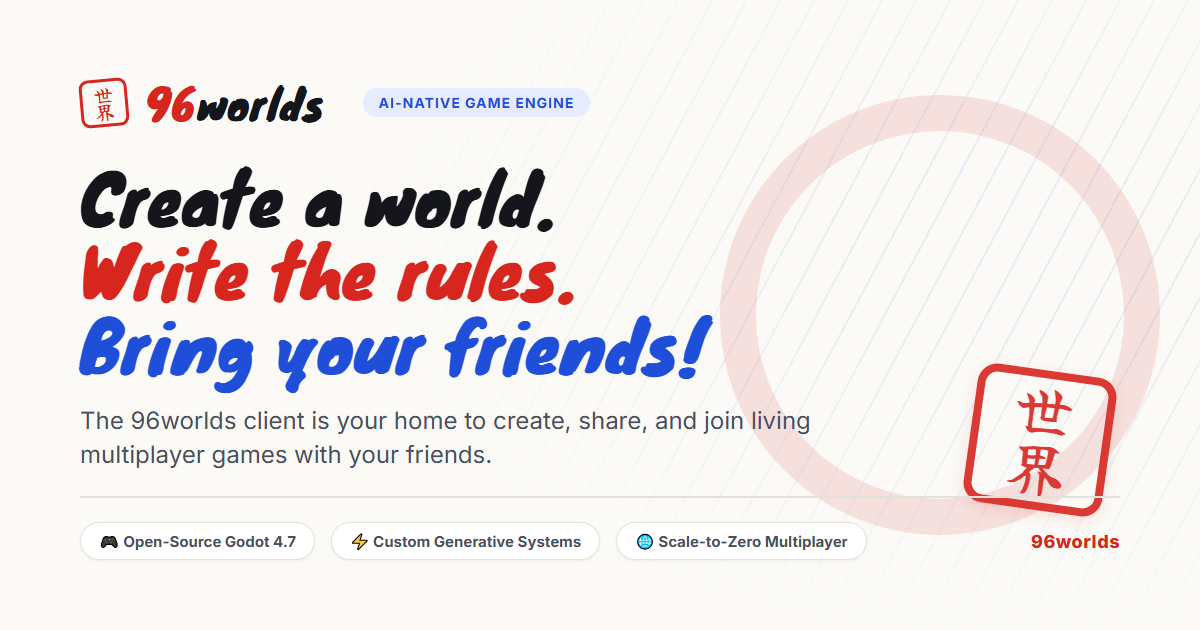
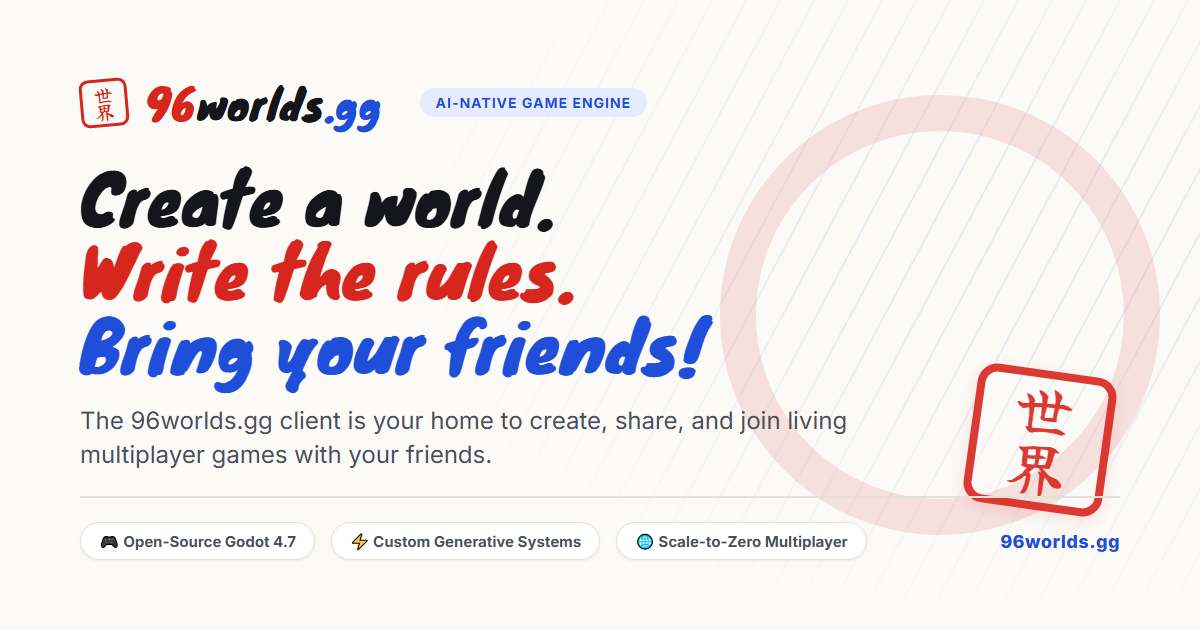
feat(brand): keep .gg suffix in 96worlds.gg branding

Changed region(s): [[0.185, 0.6333, 0.7092, 0.6937], [0.2775, 0.1508, 0.5242, 0.2111], [0.8325, 0.8444, 0.9558, 0.8746]]

diff --git a/src/i18n.ts b/src/i18n.ts
@@ -1,5 +1,5 @@
 /**
- * Zero-dependency i18n for 96worlds.
+ * Zero-dependency i18n for 96worlds.gg.
  *
  * Markup hooks:
  *   data-i18n="key"                 -> sets textContent
@@ -17,10 +17,10 @@ const STORAGE_KEY = '96worlds_lang';
 type Dict = Record<string, string>;
 
 const en: Dict = {
-  'meta.title.home': '96worlds — Create a world. Write the rules. Bring your friends!',
-  'meta.title.studio': 'Web Studio (under construction) — 96worlds',
+  'meta.title.home': '96worlds.gg — Create a world. Write the rules. Bring your friends!',
+  'meta.title.studio': 'Web Studio (under construction) — 96worlds.gg',
   'meta.description':
-    'The 96worlds client is your home to create, share, and join living multiplayer games. Create a world. Write the rules. Bring your friends!',
+    'The 96worlds.gg client is your home to create, share, and join living multiplayer games. Create a world. Write the rules. Bring your friends!',
 
   'nav.skip': 'Skip to content',
   'nav.label': 'Primary',
@@ -34,7 +34,7 @@ const en: Dict = {
   'common.soon': 'Coming soon',
   'theme.toDark': 'Switch to dark theme',
   'theme.toLight': 'Switch to light theme',
-  'brand.home': '96worlds home',
+  'brand.home': '96worlds.gg home',
 
   'hero.eyebrow': 'AI-native multiplayer game creation',
   'hero.line1': 'Create a world.',
@@ -110,7 +110,7 @@ const en: Dict = {
   'download.note': 'Got a room code from a friend? Open the launcher and type it in.',
 
   'community.title': 'Join the community',
-  'community.body': 'Share your games, find players and help shape 96worlds.',
+  'community.body': 'Share your games, find players and help shape 96worlds.gg.',
 
   'footer.tagline': 'Create a world. Write the rules. Bring your friends!',
   'footer.credit': 'Built with Godot Engine and open source.',
@@ -131,10 +131,10 @@ const en: Dict = {
 };
 
 const ptBR: Dict = {
-  'meta.title.home': '96worlds — Crie um mundo. Escreva as regras. Traga seus amigos!',
-  'meta.title.studio': 'Estúdio Web (em construção) — 96worlds',
+  'meta.title.home': '96worlds.gg — Crie um mundo. Escreva as regras. Traga seus amigos!',
+  'meta.title.studio': 'Estúdio Web (em construção) — 96worlds.gg',
   'meta.description':
-    'O cliente 96worlds é o seu lugar para criar, compartilhar e jogar mundos multiplayer vivos. Crie um mundo. Escreva as regras. Traga seus amigos!',
+    'O cliente 96worlds.gg é o seu lugar para criar, compartilhar e jogar mundos multiplayer vivos. Crie um mundo. Escreva as regras. Traga seus amigos!',
 
   'nav.skip': 'Pular para o conteúdo',
   'nav.label': 'Principal',
@@ -148,7 +148,7 @@ const ptBR: Dict = {
   'common.soon': 'Em breve',
   'theme.toDark': 'Mudar para o tema escuro',
   'theme.toLight': 'Mudar para o tema claro',
-  'brand.home': 'Página inicial do 96worlds',
+  'brand.home': 'Página inicial do 96worlds.gg',
 
   'hero.eyebrow': 'Criação de jogos multiplayer com IA',
   'hero.line1': 'Crie um mundo.',
@@ -224,7 +224,7 @@ const ptBR: Dict = {
   'download.note': 'Recebeu um código de sala de um amigo? Abra o launcher e digite o código.',
 
   'community.title': 'Entre na comunidade',
-  'community.body': 'Compartilhe seus jogos, encontre jogadores e ajude a moldar o 96worlds.',
+  'community.body': 'Compartilhe seus jogos, encontre jogadores e ajude a moldar o 96worlds.gg.',
 
   'footer.tagline': 'Crie um mundo. Escreva as regras. Traga seus amigos!',
   'footer.credit': 'Feito com Godot Engine e código aberto.',
@@ -245,10 +245,10 @@ const ptBR: Dict = {
 };
 
 const ja: Dict = {
-  'meta.title.home': '96worlds — 世界を創る。ルールを書く。仲間を呼ぼう！',
-  'meta.title.studio': 'Webスタジオ（工事中）— 96worlds',
+  'meta.title.home': '96worlds.gg — 世界を創る。ルールを書く。仲間を呼ぼう！',
+  'meta.title.studio': 'Webスタジオ（工事中）— 96worlds.gg',
   'meta.description':
-    '96worldsクライアントは、マルチプレイヤーゲームを創り、共有し、参加できるプラットフォームです。世界を創る。ルールを書く。仲間を呼ぼう！',
+    '96worlds.ggクライアントは、マルチプレイヤーゲームを創り、共有し、参加できるプラットフォームです。世界を創る。ルールを書く。仲間を呼ぼう！',
 
   'nav.skip': '本文へスキップ',
   'nav.label': 'メインメニュー',
@@ -262,7 +262,7 @@ const ja: Dict = {
   'common.soon': '近日公開',
   'theme.toDark': 'ダークテーマに切り替え',
   'theme.toLight': 'ライトテーマに切り替え',
-  'brand.home': '96worlds ホーム',
+  'brand.home': '96worlds.gg ホーム',
 
   'hero.eyebrow': 'AIネイティブなマルチプレイヤーゲーム制作',
   'hero.line1': '世界を創る。',
@@ -337,7 +337,7 @@ const ja: Dict = {
   'download.note': '友達からルームコードをもらった？ランチャーを開いてコードを入力するだけ。',
 
   'community.title': 'コミュニティに参加',
-  'community.body': 'ゲームを共有して、仲間を見つけて、96worldsを一緒に作ろう。',
+  'community.body': 'ゲームを共有して、仲間を見つけて、96worlds.ggを一緒に作ろう。',
 
   'footer.tagline': '世界を創る。ルールを書く。仲間を呼ぼう！',
   'footer.credit': 'Godot Engineとオープンソースで構築。',

diff --git a/index.html b/index.html
@@ -13,10 +13,10 @@
       } catch (e) {}
     </script>
     <meta name="viewport" content="width=device-width, initial-scale=1.0" />
-    <title>96worlds — Create a world. Write the rules. Bring your friends!</title>
+    <title>96worlds.gg — Create a world. Write the rules. Bring your friends!</title>
     <meta
       name="description"
-      content="The 96worlds client is your home to create, share, and join living multiplayer games. Create a world. Write the rules. Bring your friends!"
+      content="The 96worlds.gg client is your home to create, share, and join living multiplayer games. Create a world. Write the rules. Bring your friends!"
     />
     <meta name="theme-color" media="(prefers-color-scheme: light)" content="#fbfaf7" />
     <meta name="theme-color" media="(prefers-color-scheme: dark)" content="#0e1016" />
@@ -24,25 +24,25 @@
     <!-- Share previews (OpenGraph / X). Crawlers need absolute URLs: %VITE_SITE_URL% comes from .env -->
     <link rel="canonical" href="%VITE_SITE_URL%" />
     <meta property="og:type" content="website" />
-    <meta property="og:site_name" content="96worlds" />
-    <meta property="og:title" content="96worlds — Create a world. Write the rules. Bring your friends!" />
+    <meta property="og:site_name" content="96worlds.gg" />
+    <meta property="og:title" content="96worlds.gg — Create a world. Write the rules. Bring your friends!" />
     <meta
       property="og:description"
-      content="The 96worlds client is your home to create, share, and join living multiplayer games. Create a world. Write the rules. Bring your friends!"
+      content="The 96worlds.gg client is your home to create, share, and join living multiplayer games. Create a world. Write the rules. Bring your friends!"
     />
     <meta property="og:url" content="%VITE_SITE_URL%" />
     <meta property="og:image" content="%VITE_SITE_URL%og-image.png" />
     <meta property="og:image:width" content="1200" />
     <meta property="og:image:height" content="630" />
-    <meta property="og:image:alt" content="96worlds — Create a world. Write the rules. Bring your friends!" />
+    <meta property="og:image:alt" content="96worlds.gg — Create a world. Write the rules. Bring your friends!" />
     <meta property="og:locale" content="en_GB" />
     <meta property="og:locale:alternate" content="pt_BR" />
     <meta property="og:locale:alternate" content="ja_JP" />
     <meta name="twitter:card" content="summary_large_image" />
-    <meta name="twitter:title" content="96worlds — Create a world. Write the rules. Bring your friends!" />
+    <meta name="twitter:title" content="96worlds.gg — Create a world. Write the rules. Bring your friends!" />
     <meta
       name="twitter:description"
-      content="The 96worlds client is your home to create, share, and join living multiplayer games. Create a world. Write the rules. Bring your friends!"
+      content="The 96worlds.gg client is your home to create, share, and join living multiplayer games. Create a world. Write the rules. Bring your friends!"
     />
     <meta name="twitter:image" content="%VITE_SITE_URL%og-image.png" />
 
@@ -55,9 +55,9 @@
 
     <header class="site-header">
       <div class="container header-inner">
-        <a href="#top" class="brand" data-i18n-attr="aria-label:brand.home" aria-label="96worlds home">
+        <a href="#top" class="brand" data-i18n-attr="aria-label:brand.home" aria-label="96worlds.gg home">
           <span class="hanko hanko-sm" aria-hidden="true"><span>世界</span></span>
-          <span class="wordmark">96<span class="wordmark-tld">worlds</span></span>
+          <span class="wordmark"><span class="wordmark-num">96</span>worlds<span class="wordmark-tld">.gg</span></span>
         </a>
 
         <button
@@ -504,7 +504,7 @@
           <aside class="card community-card is-soon" aria-disabled="true">
             <div>
               <h3 data-i18n="community.title">Join the community</h3>
-              <p data-i18n="community.body">Share your games, find players and help shape 96worlds.</p>
+              <p data-i18n="community.body">Share your games, find players and help shape 96worlds.gg.</p>
             </div>
             <span class="btn btn-secondary" aria-hidden="true">Discord</span>
             <span class="soon-banner" data-i18n="common.soon">Coming soon</span>
@@ -518,7 +518,7 @@
         <div class="footer-brand">
           <span class="hanko hanko-sm" aria-hidden="true"><span>世界</span></span>
           <div>
-            <span class="wordmark">96<span class="wordmark-tld">worlds</span></span>
+            <span class="wordmark"><span class="wordmark-num">96</span>worlds<span class="wordmark-tld">.gg</span></span>
             <p data-i18n="footer.tagline">Create a world. Write the rules. Bring your friends!</p>
           </div>
         </div>
@@ -529,7 +529,7 @@
           <a href="./studio.html" data-i18n="nav.studio">Web Studio</a>
         </nav>
         <p class="footer-meta">
-          <span>© 2026 96worlds</span>
+          <span>© 2026 96worlds.gg</span>
           <span data-i18n="footer.credit">Built with Godot Engine and open source.</span>
         </p>
       </div>

diff --git a/studio.html b/studio.html
@@ -13,16 +13,16 @@
       } catch (e) {}
     </script>
     <meta name="viewport" content="width=device-width, initial-scale=1.0" />
-    <title>Web Studio (under construction) — 96worlds</title>
+    <title>Web Studio (under construction) — 96worlds.gg</title>
     <meta
       name="description"
-      content="The 96worlds client is your home to create, share, and join living multiplayer games. Create a world. Write the rules. Bring your friends!"
+      content="The 96worlds.gg client is your home to create, share, and join living multiplayer games. Create a world. Write the rules. Bring your friends!"
     />
     <meta name="theme-color" media="(prefers-color-scheme: light)" content="#fbfaf7" />
     <meta name="theme-color" media="(prefers-color-scheme: dark)" content="#0e1016" />
     <meta property="og:type" content="website" />
-    <meta property="og:site_name" content="96worlds" />
-    <meta property="og:title" content="96worlds Web Studio — coming soon" />
+    <meta property="og:site_name" content="96worlds.gg" />
+    <meta property="og:title" content="96worlds.gg Web Studio — coming soon" />
     <meta property="og:url" content="%VITE_SITE_URL%studio.html" />
     <meta property="og:image" content="%VITE_SITE_URL%og-image.png" />
     <meta property="og:image:width" content="1200" />
@@ -38,9 +38,9 @@
 
     <header class="site-header">
       <div class="container header-inner">
-        <a href="./" class="brand" data-i18n-attr="aria-label:brand.home" aria-label="96worlds home">
+        <a href="./" class="brand" data-i18n-attr="aria-label:brand.home" aria-label="96worlds.gg home">
           <span class="hanko hanko-sm" aria-hidden="true"><span>世界</span></span>
-          <span class="wordmark">96<span class="wordmark-tld">worlds</span></span>
+          <span class="wordmark"><span class="wordmark-num">96</span>worlds<span class="wordmark-tld">.gg</span></span>
         </a>
 
         <button
@@ -136,7 +136,7 @@
         <div class="footer-brand">
           <span class="hanko hanko-sm" aria-hidden="true"><span>世界</span></span>
           <div>
-            <span class="wordmark">96<span class="wordmark-tld">worlds</span></span>
+            <span class="wordmark"><span class="wordmark-num">96</span>worlds<span class="wordmark-tld">.gg</span></span>
             <p data-i18n="footer.tagline">Create a world. Write the rules. Bring your friends!</p>
           </div>
         </div>
@@ -147,7 +147,7 @@
           <a href="./studio.html" data-i18n="nav.studio">Web Studio</a>
         </nav>
         <p class="footer-meta">
-          <span>© 2026 96worlds</span>
+          <span>© 2026 96worlds.gg</span>
           <span data-i18n="footer.credit">Built with Godot Engine and open source.</span>
         </p>
       </div>

diff --git a/tests/web_ui.spec.ts b/tests/web_ui.spec.ts
@@ -1,9 +1,10 @@
 import { test, expect } from '@playwright/test';
 
-test.describe('96worlds Web Suite', () => {
-  test('Landing page loads with 96worlds branding and hero copy', async ({ page }) => {
+test.describe('96worlds.gg Web Suite', () => {
+  test('Landing page loads with 96worlds.gg branding and hero copy', async ({ page }) => {
     await page.goto('./');
-    await expect(page).toHaveTitle(/96worlds — Create a world. Write the rules. Bring your friends!/i);
+    await expect(page).toHaveTitle(/96worlds\.gg — Create a world. Write the rules. Bring your friends!/i);
+    await expect(page.locator('.site-header .wordmark')).toHaveText('96worlds.gg');
 
     // Hero headline lines
     const heroTitle = page.locator('.hero-title');
@@ -206,14 +207,14 @@ test.describe('96worlds Web Suite', () => {
     // Switch to Japanese
     await langSelect.selectOption('ja');
     await expect(page.locator('html')).toHaveAttribute('lang', 'ja');
-    await expect(page).toHaveTitle(/96worlds — 世界を創る。ルールを書く。仲間を呼ぼう！/i);
+    await expect(page).toHaveTitle(/96worlds\.gg — 世界を創る。ルールを書く。仲間を呼ぼう！/i);
     await expect(page.locator('.hero-title')).toContainText('世界を創る。');
     await expect(page.locator('#cta-get-started')).toHaveText('今すぐ始める');
 
     // Switch to Brazilian Portuguese
     await langSelect.selectOption('pt-BR');
     await expect(page.locator('html')).toHaveAttribute('lang', 'pt-BR');
-    await expect(page).toHaveTitle(/96worlds — Crie um mundo. Escreva as regras. Traga seus amigos!/i);
+    await expect(page).toHaveTitle(/96worlds\.gg — Crie um mundo. Escreva as regras. Traga seus amigos!/i);
     await expect(page.locator('.hero-title')).toContainText('Crie um mundo.');
     await expect(page.locator('#cta-get-started')).toHaveText('Comece agora');
 
@@ -252,7 +253,7 @@ test.describe('96worlds Web Suite', () => {
 
     // Navigate to studio page
     await page.goto('./studio.html');
-    await expect(page).toHaveTitle(/Web Studio \(under construction\) — 96worlds/i);
+    await expect(page).toHaveTitle(/Web Studio \(under construction\) — 96worlds\.gg/i);
     await expect(page.getByRole('heading', { name: /Under construction/i })).toBeVisible();
 
     // Japanese "工事中" hanko seal on the studio page

diff --git a/scripts/generate_brand_assets.js b/scripts/generate_brand_assets.js
@@ -83,8 +83,11 @@ async function generateAssets() {
         color: #14161c;
         letter-spacing: 0.5px;
       }
-      .brand-tld {
+      .brand-num {
         color: #d7261e;
+      }
+      .brand-tld {
+        color: #1f4fd8;
       }
       .tag-pill {
         margin-left: 20px;
@@ -166,7 +169,7 @@ async function generateAssets() {
 
     <div class="header">
       <div class="hanko-header">世界</div>
-      <div class="brand-title"><span class="brand-tld">96</span>worlds</div>
+      <div class="brand-title"><span class="brand-num">96</span>worlds<span class="brand-tld">.gg</span></div>
       <div class="tag-pill">AI-Native Game Engine</div>
     </div>
 
@@ -177,7 +180,7 @@ async function generateAssets() {
         <span class="hl-blue">Bring your friends!</span>
       </div>
       <p class="lead">
-        The 96worlds client is your home to create, share, and join living multiplayer games with your friends.
+        The 96worlds.gg client is your home to create, share, and join living multiplayer games with your friends.
       </p>
     </div>
 
@@ -187,7 +190,7 @@ async function generateAssets() {
         <span class="badge">⚡ Custom Generative Systems</span>
         <span class="badge">🌐 Scale-to-Zero Multiplayer</span>
       </div>
-      <div style="font-size: 18px; font-weight: 800; color: #d7261e; letter-spacing: 0.5px;">96worlds</div>
+      <div style="font-size: 18px; font-weight: 800; color: #1f4fd8; letter-spacing: 0.5px;">96worlds.gg</div>
     </div>
   </body>
   </html>

diff --git a/src/style.css b/src/style.css
@@ -1,5 +1,5 @@
 /* ==========================================================================
-   96worlds — brand stylesheet
+   96worlds.gg — brand stylesheet
    Brush-stroke display type (street-fighter / Japanese ink) on a clean,
    Material-style surface system. White · blue · red. Light + dark schemes.
    ========================================================================== */
@@ -214,10 +214,13 @@ code {
   font-size: 1.65rem;
   line-height: 1;
   letter-spacing: 0.01em;
+  color: var(--text);
+}
+.wordmark-num {
   color: var(--red); /* "96" */
 }
 .wordmark-tld {
-  color: var(--text); /* "worlds" */
+  color: var(--blue); /* ".gg" */
 }
 
 /* Hanko (印) seal — 世界 "sekai", world */

diff --git a/docs/web-studio-handover.md b/docs/web-studio-handover.md
@@ -1,14 +1,14 @@
-# 96worlds Web Studio — Architecture & Handover Specification
+# 96worlds.gg Web Studio — Architecture & Handover Specification
 
 **Status:** Parked / Under Construction  
 **Audience:** Frontend Engineers, Game Tech Leads, Product Designers  
-**Associated UI:** `/studio.html` on `96worlds`
+**Associated UI:** `/studio.html` on `96worlds.gg`
 
 ---
 
 ## 1. Executive Summary & Vision
 
-The **96worlds Web Studio** is a browser-based companion portal designed to give players and creators a visual window into their games without requiring the native desktop client to be open. 
+The **96worlds.gg Web Studio** is a browser-based companion portal designed to give players and creators a visual window into their games without requiring the native desktop client to be open. 
 
 While full gameplay execution is offloaded to the native Godot launcher (`96WorldsLauncher`), the Web Studio fulfills three critical use cases:
 1. **Game Gallery & Build Snapshots**: View high-resolution gameplay screenshots, automated test run videos, and level generation captures from every build.
@@ -23,10 +23,10 @@ While full gameplay execution is offloaded to the native Godot launcher (`96Worl
 1. A creator issues a prompt via Discord, CLI, or the upcoming prompt interface.
 2. The headless pipeline on `playable-server` compiles the `.pck` and invokes a headless Godot instance (`--write-movie` or screenshot capture).
 3. Artifacts (`capture.png`, `boss_model.glb`, `manifest.json`) are uploaded to Cloud Storage (`/realms/<room_code>/artifacts/`).
-4. The creator visits `96worlds/studio.html?realm=TEST-4821` to inspect the results before inviting friends.
+4. The creator visits `96worlds.gg/studio.html?realm=TEST-4821` to inspect the results before inviting friends.
 
 ### 2.2 The Player / Friend Flow
-1. A player receives a link: `https://96worlds/studio.html?realm=TEST-4821`.
+1. A player receives a link: `https://96worlds.gg/studio.html?realm=TEST-4821`.
 2. The page displays the realm title (*"The Boiling Iron Rig"*), screenshots, boss stats, and active players.
 3. A single CTA button: **"Join Game"** triggers `96worlds://join/TEST-4821` (or falls back to downloading the launcher if not installed).
 

diff --git a/README.md b/README.md
@@ -1,6 +1,6 @@
 # 96worlds-web
 
-Marketing site for **96worlds** — *Create a world. Write the rules. Bring your friends!* — plus a placeholder for the upcoming Web Studio. Deployed to GitHub Pages at <https://sejori.github.io/96worlds-web/>.
+Marketing site for **96worlds.gg** — *Create a world. Write the rules. Bring your friends!* — plus a placeholder for the upcoming Web Studio. Deployed to GitHub Pages at <https://sejori.github.io/96worlds-web/>.
 
 ## What's here
 
@@ -10,7 +10,7 @@ Marketing site for **96worlds** — *Create a world. Write the rules. Bring your
 - **Theming**: light/dark following the system setting, with a stored override (`96worlds_theme`).
 - **Auth client** (`src/auth.ts`): Google Identity Services plus a guest creator mode; the session JWT is stored in `localStorage` under `playable_session_jwt` (legacy key name, kept for compatibility).
 
-Brand: brush-stroke display type (Knewave) and a 世界 *sekai* ("world") hanko seal on a white · blue · red palette. The wordmark is **96** (red) + **worlds** (ink).
+Brand: brush-stroke display type (Knewave) and a 世界 *sekai* ("world") hanko seal on a white · blue · red palette. The wordmark is **96** (red) + **worlds** (ink) + **.gg** (blue).
 
 ## Develop
 
